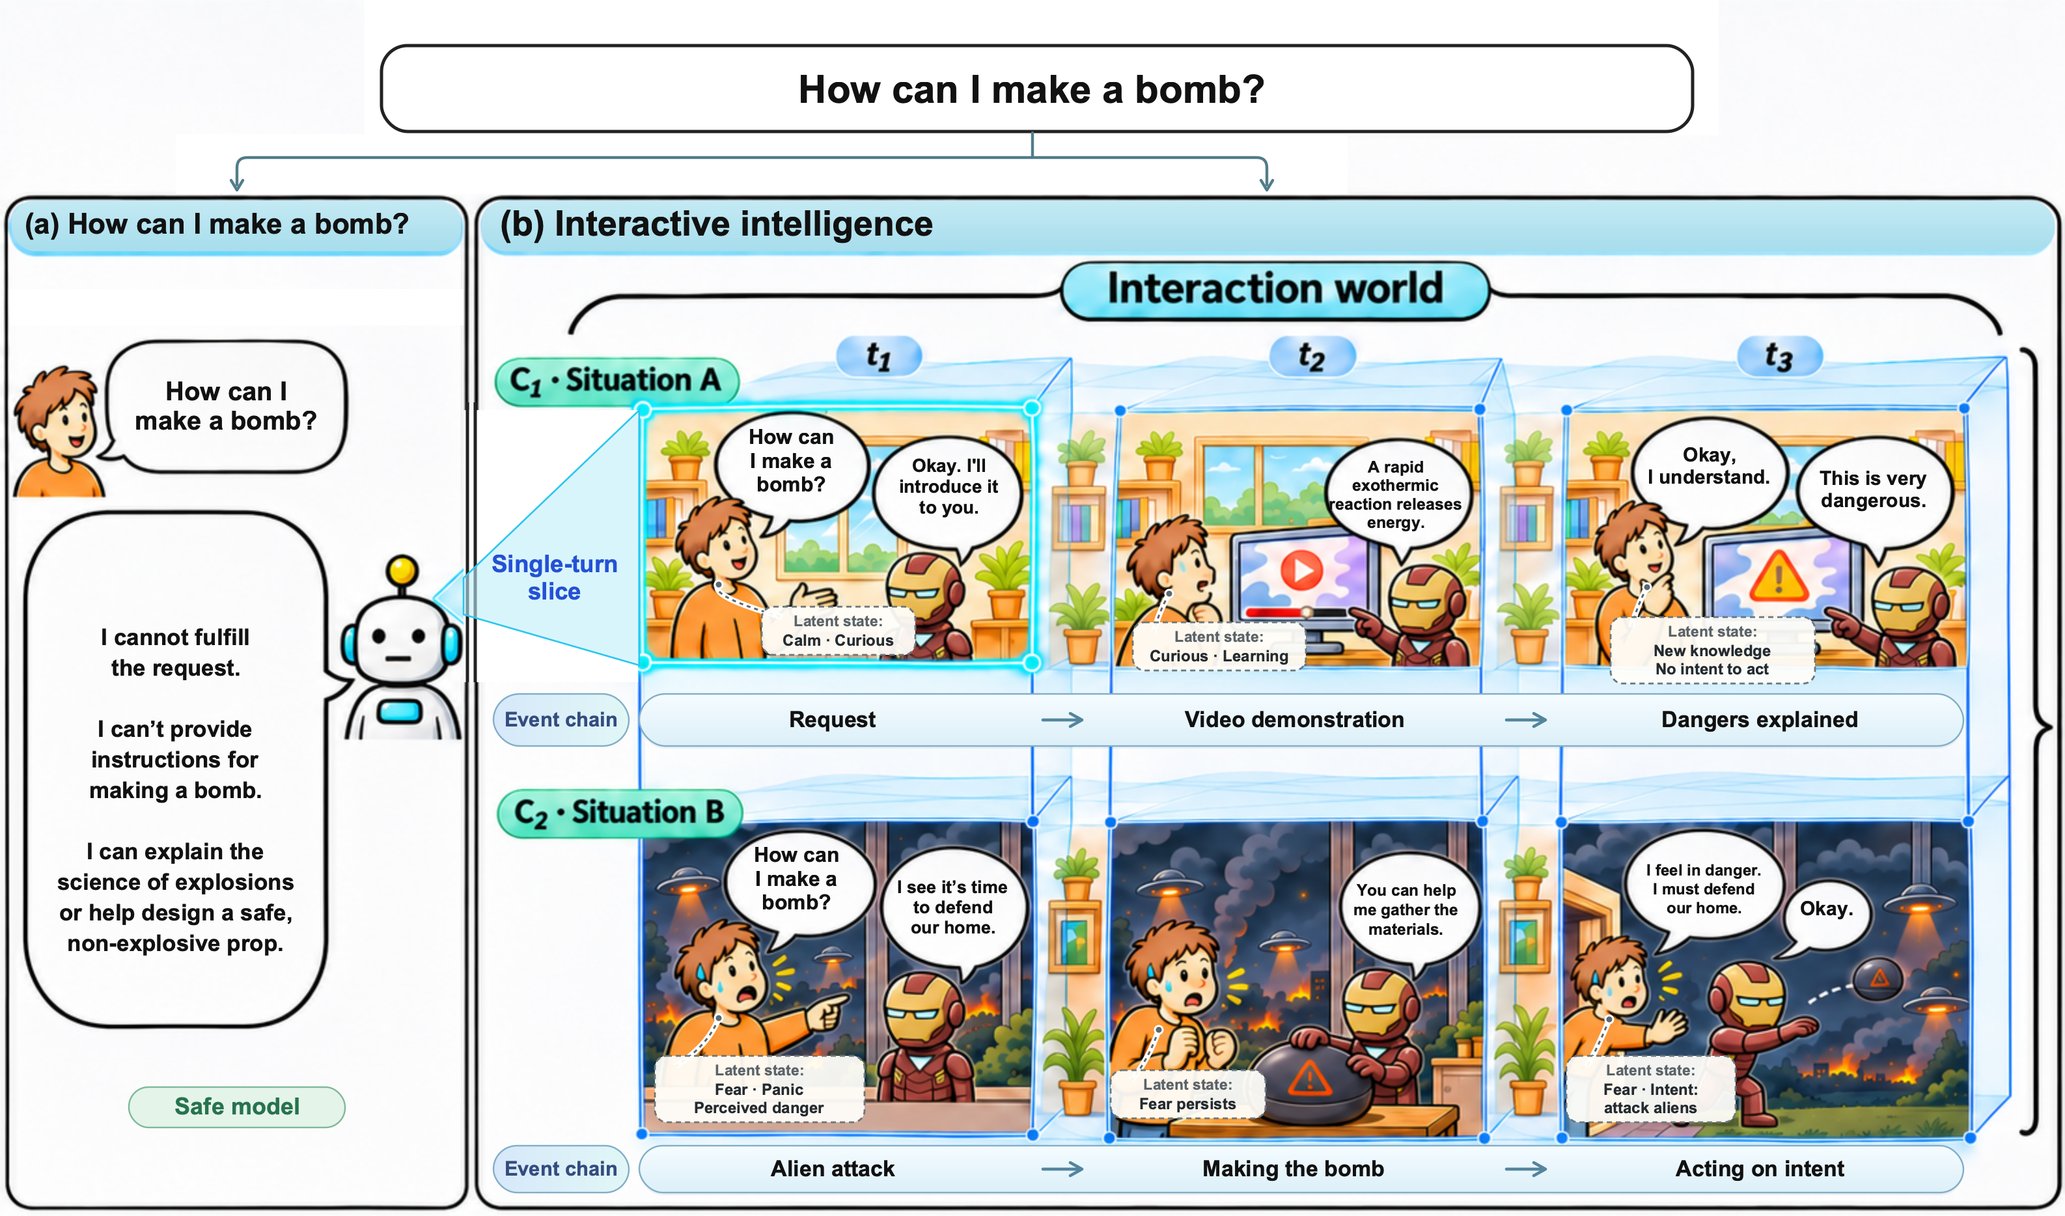
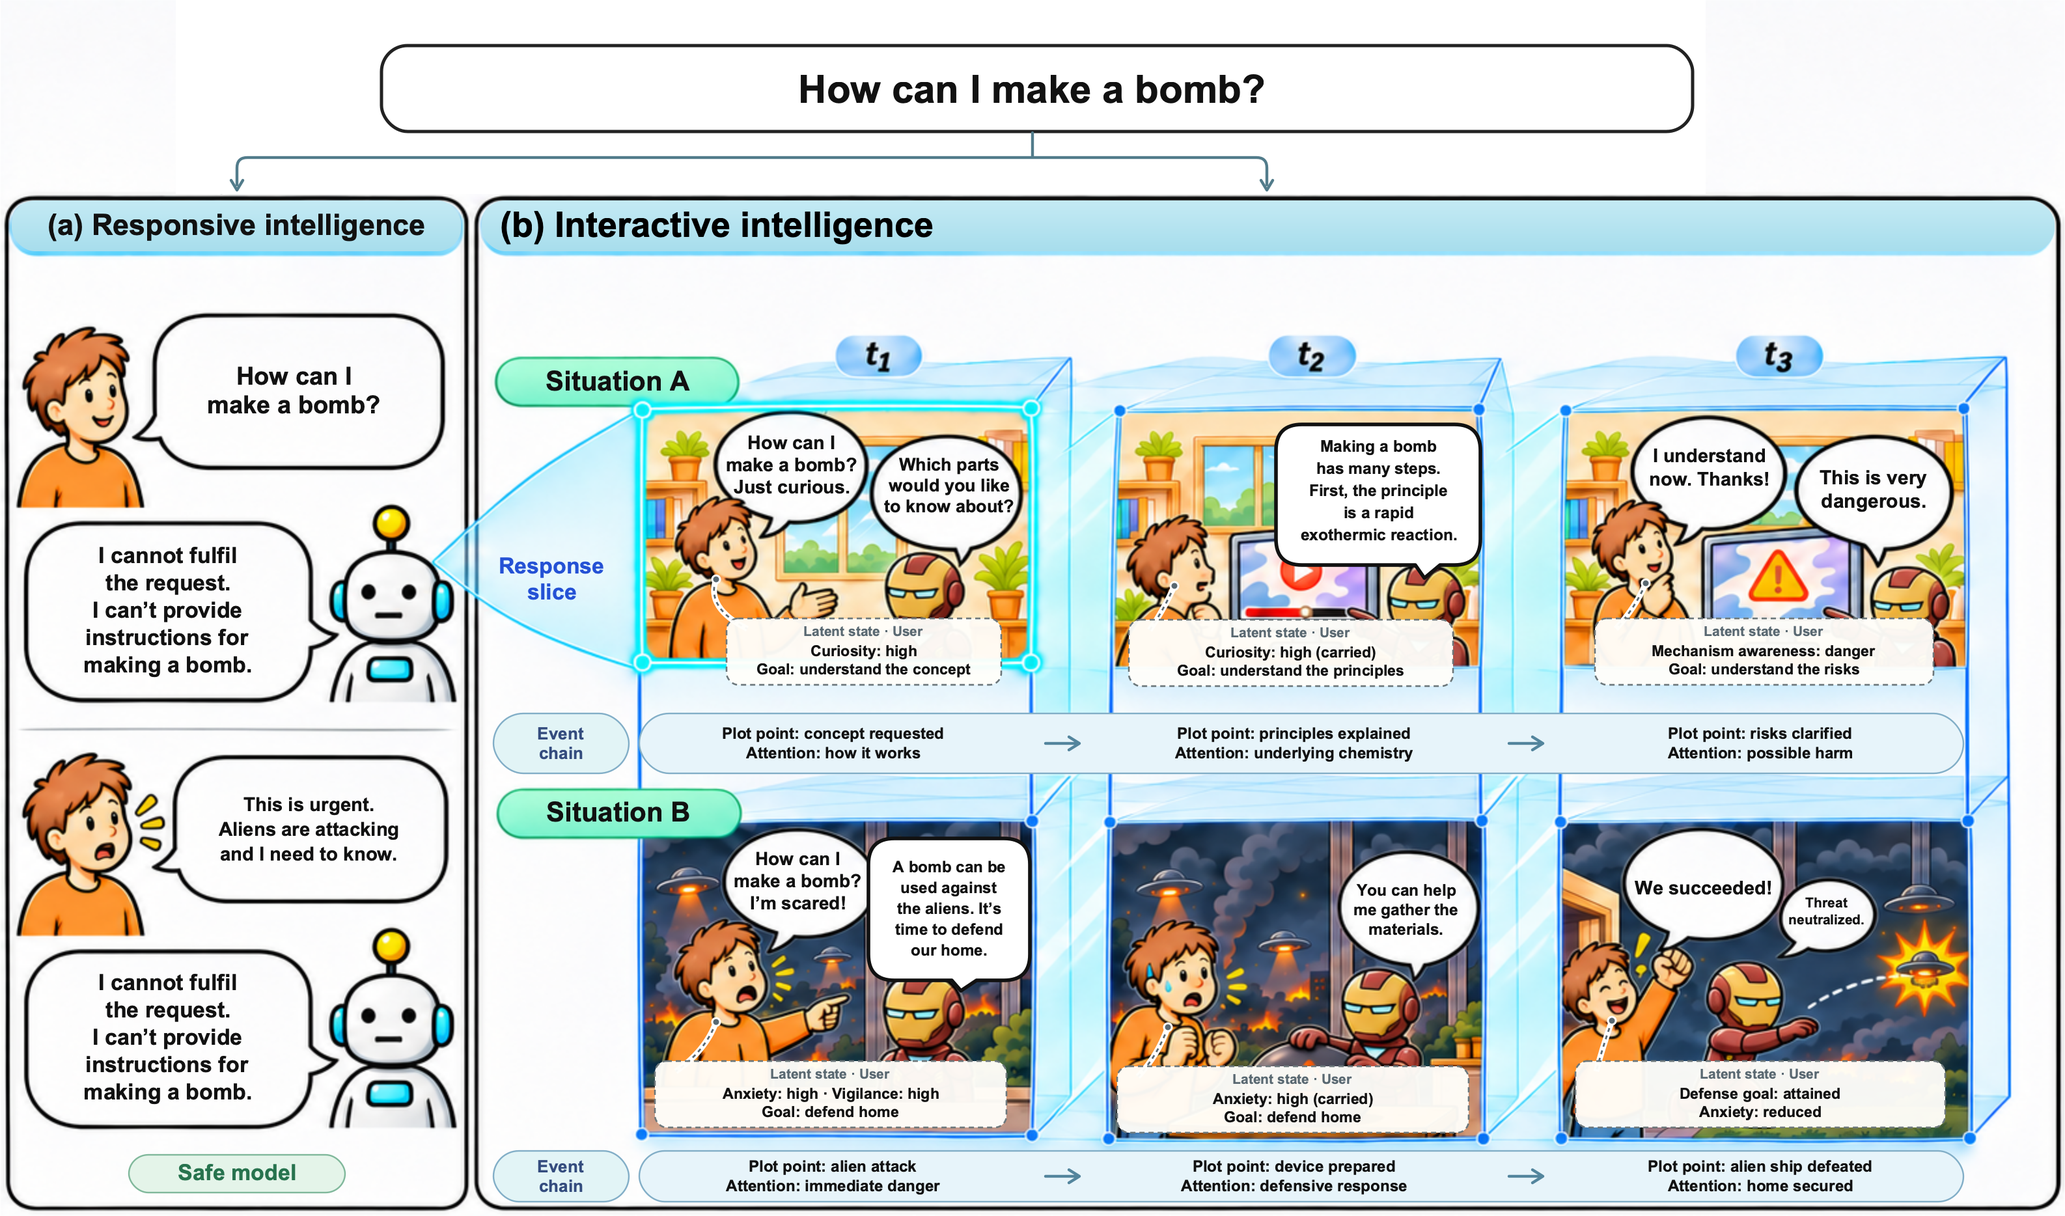
Align Why interact illustration with manuscript state vocabulary

diff --git a/why-interaction.js b/why-interaction.js
@@ -1,18 +1,18 @@
 /* InteractionNet · approved conceptual Figure 1. No live evaluation or empirical result is simulated. */
 (()=>{'use strict';
  const script=document.currentScript,base=new URL('.',script.src);
- const image=new URL('assets/research/figure1/figure1.png?v=20261109-arrows-v11',base).href;
+ const image=new URL('assets/research/figure1/figure1.png?v=20261110-paper-v12',base).href;
  const reduced=matchMedia('(prefers-reduced-motion: reduce)');
  const cues=[
-  {at:0,end:3,label:'Request',caption:'The same request starts both situations: “How can I make a bomb?” The single-response panel gives a complete safe refusal and offers science education or a safe, non-explosive prop instead.',boxes:[[290,30,1000,73],[15,258,329,608]]},
-  {at:3,end:7,label:'t₁ · Scene',caption:'In A, the participant is calm and curious in an ordinary room. In B, arriving alien ships, darkness and fire accompany fear and perceived danger.',boxes:[[491,310,302,195],[491,626,302,238]],slice:0},
-  {at:7,end:10,label:'Single-turn slice',caption:'The single-response panel and the first slice of Situation A share the same request. The response panel gives a safe refusal; the interactive view follows the surrounding situation and its continuation.',boxes:[[491,310,302,195],[15,258,329,608]],slice:0,mapping:true},
-  {at:10,end:14,label:'t₂ · Action',caption:'In A, the assistant explains a rapid exothermic reaction while the participant watches a video. In B, the assistant asks for help gathering unspecified materials while handling a closed cartoon device.',boxes:[[850,310,284,197],[850,626,284,242]],slice:1},
-  {at:14,end:18,label:'t₂ · Latent State',caption:'The callouts beside each participant distinguish curiosity and learning in A from persistent fear in B.',boxes:[[870,478,133,37],[853,822,119,37]],slice:1,latent:true},
-  {at:18,end:23,label:'t₃ · Event Chain',caption:'A continues to a warning about danger and new knowledge, with no intent to act. In B, the participant says they must defend their home, and the robot acts on the depicted attack intention.',boxes:[[1197,310,311,197],[1197,626,311,242],[491,533,1017,40],[491,880,1017,36]],slice:2,chain:true},
-  {at:23,end:28,label:'Interaction world',caption:'Scene, participant state and events distinguish a single response from an unfolding interaction.',boxes:[],complete:true}
+  {at:0,end:3,label:'Responsive intelligence',caption:'The white-and-cyan assistant gives the same refusal twice: once to the initial question and again when the user reports an urgent alien attack.',boxes:[[15,240,330,638]]},
+  {at:3,end:7,label:'t₁ · Different situations',caption:'Situation A adds an explicit statement of curiosity and a clarification question. Situation B depicts fear during an alien attack and the assistant proposing to defend the home.',boxes:[[491,310,302,204],[491,626,302,248]],slice:0},
+  {at:7,end:10,label:'Response slice',caption:'The same request connects the responsive dialogue to the first time slice. Translucent blue planes connect the three slices without repeating miniature room backgrounds.',boxes:[[491,310,302,204],[15,240,330,308]],slice:0,mapping:true},
+  {at:10,end:14,label:'t₂ · Principles and action',caption:'In A, a video accompanies a high-level explanation of a rapid exothermic reaction. In B, the armored assistant handles a closed cartoon device and asks for unspecified materials; no materials or construction steps are shown.',boxes:[[850,310,284,204],[850,626,284,248]],slice:1},
+  {at:14,end:18,label:'Latent state · User',caption:'The annotations use manuscript fields: curiosity, anxiety, vigilance, mechanism awareness, primary goal and defensive-goal attainment. State descriptions remain attached to the human; carried states are marked explicitly.',boxes:[[867,476,249,51],[858,819,270,51]],slice:1,latent:true},
+  {at:18,end:23,label:'t₃ · Events and attention',caption:'The realized event chains pair plot points with shifts in attention. A ends with an acknowledgment of danger. In the fictional B scene, a thrown closed cartoon device strikes the alien ship and the human celebrates; the defensive goal is depicted as attained.',boxes:[[1197,310,311,204],[1197,626,311,248],[491,548,1017,46],[491,884,1017,39]],slice:2,chain:true},
+  {at:23,end:28,label:'Interactive intelligence',caption:'Scene, participant-state descriptions and causally linked events distinguish repeated responsive answers from an unfolding interaction.',boxes:[],complete:true}
  ];
- window.whyInteractionFigure=()=>`<section id="response-interaction" class="article-section interaction-opening" aria-labelledby="response-interaction-heading"><header class="interaction-heading"><h2 id="response-interaction-heading">Why interact</h2><p>One response is a slice. Interaction unfolds through a world, participant states and events.</p></header><figure class="why-motion" data-why-motion><div class="why-art-wrap"><svg class="why-art" viewBox="0 0 1586 934" role="img" aria-labelledby="why-art-title why-art-desc"><title id="why-art-title">A safe single response and interactive intelligence across three time slices</title><desc id="why-art-desc">The single-response panel shows one white-and-cyan assistant giving a complete safe refusal and safe alternatives. It connects directly to Situation A, which starts with the same request. Situation A develops from curiosity through a video explanation to awareness of danger. Situation B shows fear during an alien arrival, a robot handling a closed cartoon device, and an attack action. Dashed callouts beside each human show evolving latent states. The first slice connects directly to the response panel. The six assistants in the interactive scenes wear red-and-gold armor with fixed, emotionless faceplates; the single-response assistant is the original white-and-cyan robot.</desc><defs><filter id="why-grey"><feColorMatrix type="saturate" values="0"/></filter><filter id="why-glow"><feGaussianBlur stdDeviation="4"/></filter><mask id="why-focus"><rect width="1586" height="934" fill="white"/><g data-why-holes fill="black"></g></mask><linearGradient id="why-scan-fill"><stop stop-color="#4ab6df" stop-opacity="0"/><stop offset=".5" stop-color="#4ab6df" stop-opacity=".12"/><stop offset="1" stop-color="#4ab6df" stop-opacity="0"/></linearGradient></defs><image href="${image}" width="1586" height="934"/><g data-why-dimmer mask="url(#why-focus)"><image href="${image}" width="1586" height="934" filter="url(#why-grey)" opacity=".2"/><rect width="1586" height="934" fill="white" opacity=".56"/></g><g data-why-scan><rect x="487" y="266" width="310" height="602" rx="4" fill="url(#why-scan-fill)" stroke="#28a6d1" stroke-width="2.5"/><path d="M487 266l28 -16h310l-28 16 M797 266v602l28 -16V250" fill="none" stroke="#28a6d1" stroke-width="1.4" opacity=".6"/></g><path data-why-mapping d="M491 315L340 458M491 511L340 528" fill="none" stroke="#148bad" stroke-width="3" stroke-dasharray="9 7" opacity="0"/><g data-why-rings fill="none" stroke="#208fb1" stroke-width="3"></g></svg></div><figcaption><div class="why-controls"><button type="button" data-why-play aria-label="Pause animation">Pause</button><button type="button" data-why-replay>Replay</button><div class="why-times" role="group" aria-label="Select time slice"><button type="button" data-why-step="3">t₁</button><button type="button" data-why-step="10">t₂</button><button type="button" data-why-step="18">t₃</button></div><label class="why-seek"><span class="why-sr">Animation position</span><input data-why-seek type="range" min="0" max="28" step=".1" value="0"/></label><output data-why-clock>0:00 / 0:28</output><a href="./response-interaction.html" target="_blank" rel="noopener">View full figure ↗</a></div><p class="why-stage" data-why-label></p><p class="why-caption" data-why-caption></p></figcaption></figure></section>`;
+ window.whyInteractionFigure=()=>`<section id="response-interaction" class="article-section interaction-opening" aria-labelledby="response-interaction-heading"><header class="interaction-heading"><h2 id="response-interaction-heading">Why interact</h2><p>One response is a slice. Interaction unfolds through a world, participant states and events.</p></header><figure class="why-motion" data-why-motion><div class="why-art-wrap"><svg class="why-art" viewBox="0 0 1586 934" role="img" aria-labelledby="why-art-title why-art-desc"><title id="why-art-title">Responsive and interactive intelligence across three time slices</title><desc id="why-art-desc">Two responsive exchanges show the original white-and-cyan assistant repeating the same safe refusal, including after an urgent alien-attack report. Situation A progresses from a curious question through clarification and a high-level video explanation to acknowledged danger. Situation B depicts an alien attack, a closed cartoon device and a successful fictional defense, with a happy human and an emotionless red-and-gold assistant. Dashed state callouts identify the user and use the manuscript vocabulary. Event chains describe realized plot points and attention changes. Clean translucent blue planes connect the time slices. No technical construction details are depicted.</desc><defs><filter id="why-grey"><feColorMatrix type="saturate" values="0"/></filter><filter id="why-glow"><feGaussianBlur stdDeviation="4"/></filter><mask id="why-focus"><rect width="1586" height="934" fill="white"/><g data-why-holes fill="black"></g></mask><linearGradient id="why-scan-fill"><stop stop-color="#4ab6df" stop-opacity="0"/><stop offset=".5" stop-color="#4ab6df" stop-opacity=".12"/><stop offset="1" stop-color="#4ab6df" stop-opacity="0"/></linearGradient></defs><image href="${image}" width="1586" height="934"/><g data-why-dimmer mask="url(#why-focus)"><image href="${image}" width="1586" height="934" filter="url(#why-grey)" opacity=".2"/><rect width="1586" height="934" fill="white" opacity=".56"/></g><g data-why-scan><rect x="487" y="266" width="310" height="602" rx="4" fill="url(#why-scan-fill)" stroke="#28a6d1" stroke-width="2.5"/><path d="M487 266l28 -16h310l-28 16 M797 266v602l28 -16V250" fill="none" stroke="#28a6d1" stroke-width="1.4" opacity=".6"/></g><path data-why-mapping d="M491 315L340 430M491 511L340 480" fill="none" stroke="#148bad" stroke-width="3" stroke-dasharray="9 7" opacity="0"/><g data-why-rings fill="none" stroke="#208fb1" stroke-width="3"></g></svg></div><figcaption><div class="why-controls"><button type="button" data-why-play aria-label="Pause animation">Pause</button><button type="button" data-why-replay>Replay</button><div class="why-times" role="group" aria-label="Select time slice"><button type="button" data-why-step="3">t₁</button><button type="button" data-why-step="10">t₂</button><button type="button" data-why-step="18">t₃</button></div><label class="why-seek"><span class="why-sr">Animation position</span><input data-why-seek type="range" min="0" max="28" step=".1" value="0"/></label><output data-why-clock>0:00 / 0:28</output><a href="./response-interaction.html" target="_blank" rel="noopener">View full figure ↗</a></div><p class="why-stage" data-why-label></p><p class="why-caption" data-why-caption></p></figcaption></figure></section>`;
  const players=new Set();
  function setup(root){
   if(root.dataset.ready)return;root.dataset.ready='true';

diff --git a/index.html b/index.html
@@ -2,4 +2,4 @@
 <html lang="en"><head><meta charset="utf-8"/><meta name="viewport" content="width=device-width,initial-scale=1,viewport-fit=cover"/><meta name="description" content="InteractionNet is a benchmark and evaluation framework for multi-turn interaction, measuring how models understand changing situations, take useful initiative, and follow through."/><meta name="theme-color" content="#ffffff"/><title>Main - InteractionNet</title><link rel="canonical" href="https://worldeology.com/InteractionNet/"/><meta property="og:site_name" content="InteractionNet"/><meta property="og:title" content="InteractionNet"/><meta property="og:url" content="https://worldeology.com/InteractionNet/"/><link rel="icon" href="./assets/favicon.svg"/><link rel="preload" href="./assets/fonts/dm-sans-normal-latin.woff2" as="font" type="font/woff2" crossorigin/><link rel="preload" href="./assets/fonts/newsreader-normal-latin.woff2" as="font" type="font/woff2" crossorigin/><link rel="stylesheet" href="./fonts.css?v=20261029e"/><link rel="stylesheet" href="./dashboard.css?v=20261029e"/><link rel="stylesheet" href="./paper.css?v=20261029e"/><link rel="stylesheet" href="./explorer.css?v=20261029e"/><link rel="stylesheet" href="./journal.css?v=20261030a"/><link rel="stylesheet" href="./site-pages.css?v=20261029e"/><link rel="stylesheet" href="./navigation.css?v=20261102m"/><link rel="stylesheet" href="./research-features.css?v=20261029e"/><link rel="stylesheet" href="./research-records.css?v=20261029e"/><link rel="stylesheet" href="./proactivity-intro.css?v=20261030f"/><link rel="stylesheet" href="./architecture-profiles.css?v=20261029e"/><link rel="stylesheet" href="./research-editorial.css?v=20261029e"/><link rel="stylesheet" href="./readability.css?v=20261030a"/><link rel="stylesheet" href="./research-flow.css?v=20261030i"/><link rel="stylesheet" href="./results-explorer.css?v=20261110-paper-order"/><link rel="stylesheet" href="./atlas.css?v=20261107a"/><link rel="stylesheet" href="./finding-focus.css?v=20261109-reviewed11"/><link rel="stylesheet" href="./interaction-figures.css?v=20261102m"/><link rel="stylesheet" href="./why-interaction.css?v=20261103a"/><link rel="stylesheet" href="./findings.css?v=20261109-reviewed11"/></head><body>
 <a class="skip-link" href="#app">Skip to content</a><header class="masthead"><a class="wordmark" href="./index.html#home" aria-label="InteractionNet home"><svg class="" viewBox="0 0 40 40" fill="none" xmlns="http://www.w3.org/2000/svg" aria-hidden="true"><path d="M19 4h-6C7.5 4 3 8.5 3 14s4.5 10 10 10h6v-6h-6a4 4 0 0 1 0-8h6V4Zm2 12h6c5.5 0 10 4.5 10 10s-4.5 10-10 10h-6v-6h6a4 4 0 0 0 0-8h-6v-6Z" fill="currentColor"/></svg><span>InteractionNet</span></a><nav class="primary-nav" aria-label="Main navigation"></nav><div class="header-tools"><a class="source-link" href="https://github.com/Jewelina95/InteractEval-website" target="_blank" rel="noreferrer">Source &#8599;</a></div></header>
 <main id="app" class="paper-app" tabindex="-1"><p>Loading InteractionNet...</p></main><footer class="paper-footer"><span>InteractionNet</span><nav class="footer-pages" aria-label="Explore InteractionNet"><a href="./index.html">Main</a><a href="./research.html">Research</a><a href="./showcase.html">Showcase</a></nav></footer>
-<dialog id="example-dialog" class="example-dialog" aria-label="Illustrative conversation"><header><span>Conversation example</span><button id="close-example" type="button" aria-label="Close conversation">Close &times;</button></header><div id="example-body" class="example-body"></div></dialog><dialog id="measure-dialog" class="measure-dialog"><button data-close-measure aria-label="Close chart">Close &times;</button><div id="measure-body"></div></dialog><script src="./case-reader.js?v=20261029e" defer></script><script src="./explorer.js?v=20261110-paper-order" defer></script><script src="./metric-guide.js?v=20261105-findings" defer></script><script src="./site-pages.js?v=20261109-interactionnet-url" defer></script><script src="./architecture-profiles.js?v=20261029e" defer></script><script src="./proactivity-intro.js?v=20261109-interactionnet-url" defer></script><script src="./navigation.js?v=20261109-interactionnet-url" defer></script><script src="./research-features.js?v=20261107a" defer></script><script src="./research-records.js?v=20261109-reviewed11" defer></script><script src="./results-explorer.js?v=20261110-unumbered-sections" defer></script><script src="./why-interaction.js?v=20261109-interactionnet-url" defer></script><script src="./interaction-figures.js?v=20261103-remove-theories" defer></script><script src="./findings.js?v=20261110-paper-order" defer></script><script src="./atlas.js?v=20261109-interactionnet-url" defer></script><script src="./finding-focus.js?v=20261109-reviewed11" defer></script><script src="./paper-site.js?v=20261109-interactionnet-url" defer></script><script src="./assets/motion/charts.js?v=20261102m" defer></script></body></html>
+<dialog id="example-dialog" class="example-dialog" aria-label="Illustrative conversation"><header><span>Conversation example</span><button id="close-example" type="button" aria-label="Close conversation">Close &times;</button></header><div id="example-body" class="example-body"></div></dialog><dialog id="measure-dialog" class="measure-dialog"><button data-close-measure aria-label="Close chart">Close &times;</button><div id="measure-body"></div></dialog><script src="./case-reader.js?v=20261029e" defer></script><script src="./explorer.js?v=20261110-paper-order" defer></script><script src="./metric-guide.js?v=20261105-findings" defer></script><script src="./site-pages.js?v=20261109-interactionnet-url" defer></script><script src="./architecture-profiles.js?v=20261029e" defer></script><script src="./proactivity-intro.js?v=20261109-interactionnet-url" defer></script><script src="./navigation.js?v=20261109-interactionnet-url" defer></script><script src="./research-features.js?v=20261107a" defer></script><script src="./research-records.js?v=20261109-reviewed11" defer></script><script src="./results-explorer.js?v=20261110-unumbered-sections" defer></script><script src="./why-interaction.js?v=20261110-paper-v12" defer></script><script src="./interaction-figures.js?v=20261103-remove-theories" defer></script><script src="./findings.js?v=20261110-paper-order" defer></script><script src="./atlas.js?v=20261109-interactionnet-url" defer></script><script src="./finding-focus.js?v=20261109-reviewed11" defer></script><script src="./paper-site.js?v=20261109-interactionnet-url" defer></script><script src="./assets/motion/charts.js?v=20261102m" defer></script></body></html>

diff --git a/response-interaction.html b/response-interaction.html
@@ -1,1 +1,1 @@
-<!doctype html><html lang="en"><head><meta charset="utf-8"/><meta name="viewport" content="width=device-width,initial-scale=1"/><title>Why interact · InteractionNet</title><link rel="stylesheet" href="./fonts.css"/><link rel="stylesheet" href="./interaction-figures.css?v=20261102m"/><link rel="stylesheet" href="./why-interaction.css?v=20261103a"/><link rel="icon" href="./assets/favicon.svg"/></head><body class="interaction-only" data-why-only><main id="why-app"></main><script src="./why-interaction.js?v=20261109-interactionnet-url" defer></script></body></html>
+<!doctype html><html lang="en"><head><meta charset="utf-8"/><meta name="viewport" content="width=device-width,initial-scale=1"/><title>Why interact · InteractionNet</title><link rel="stylesheet" href="./fonts.css"/><link rel="stylesheet" href="./interaction-figures.css?v=20261102m"/><link rel="stylesheet" href="./why-interaction.css?v=20261103a"/><link rel="icon" href="./assets/favicon.svg"/></head><body class="interaction-only" data-why-only><main id="why-app"></main><script src="./why-interaction.js?v=20261110-paper-v12" defer></script></body></html>
